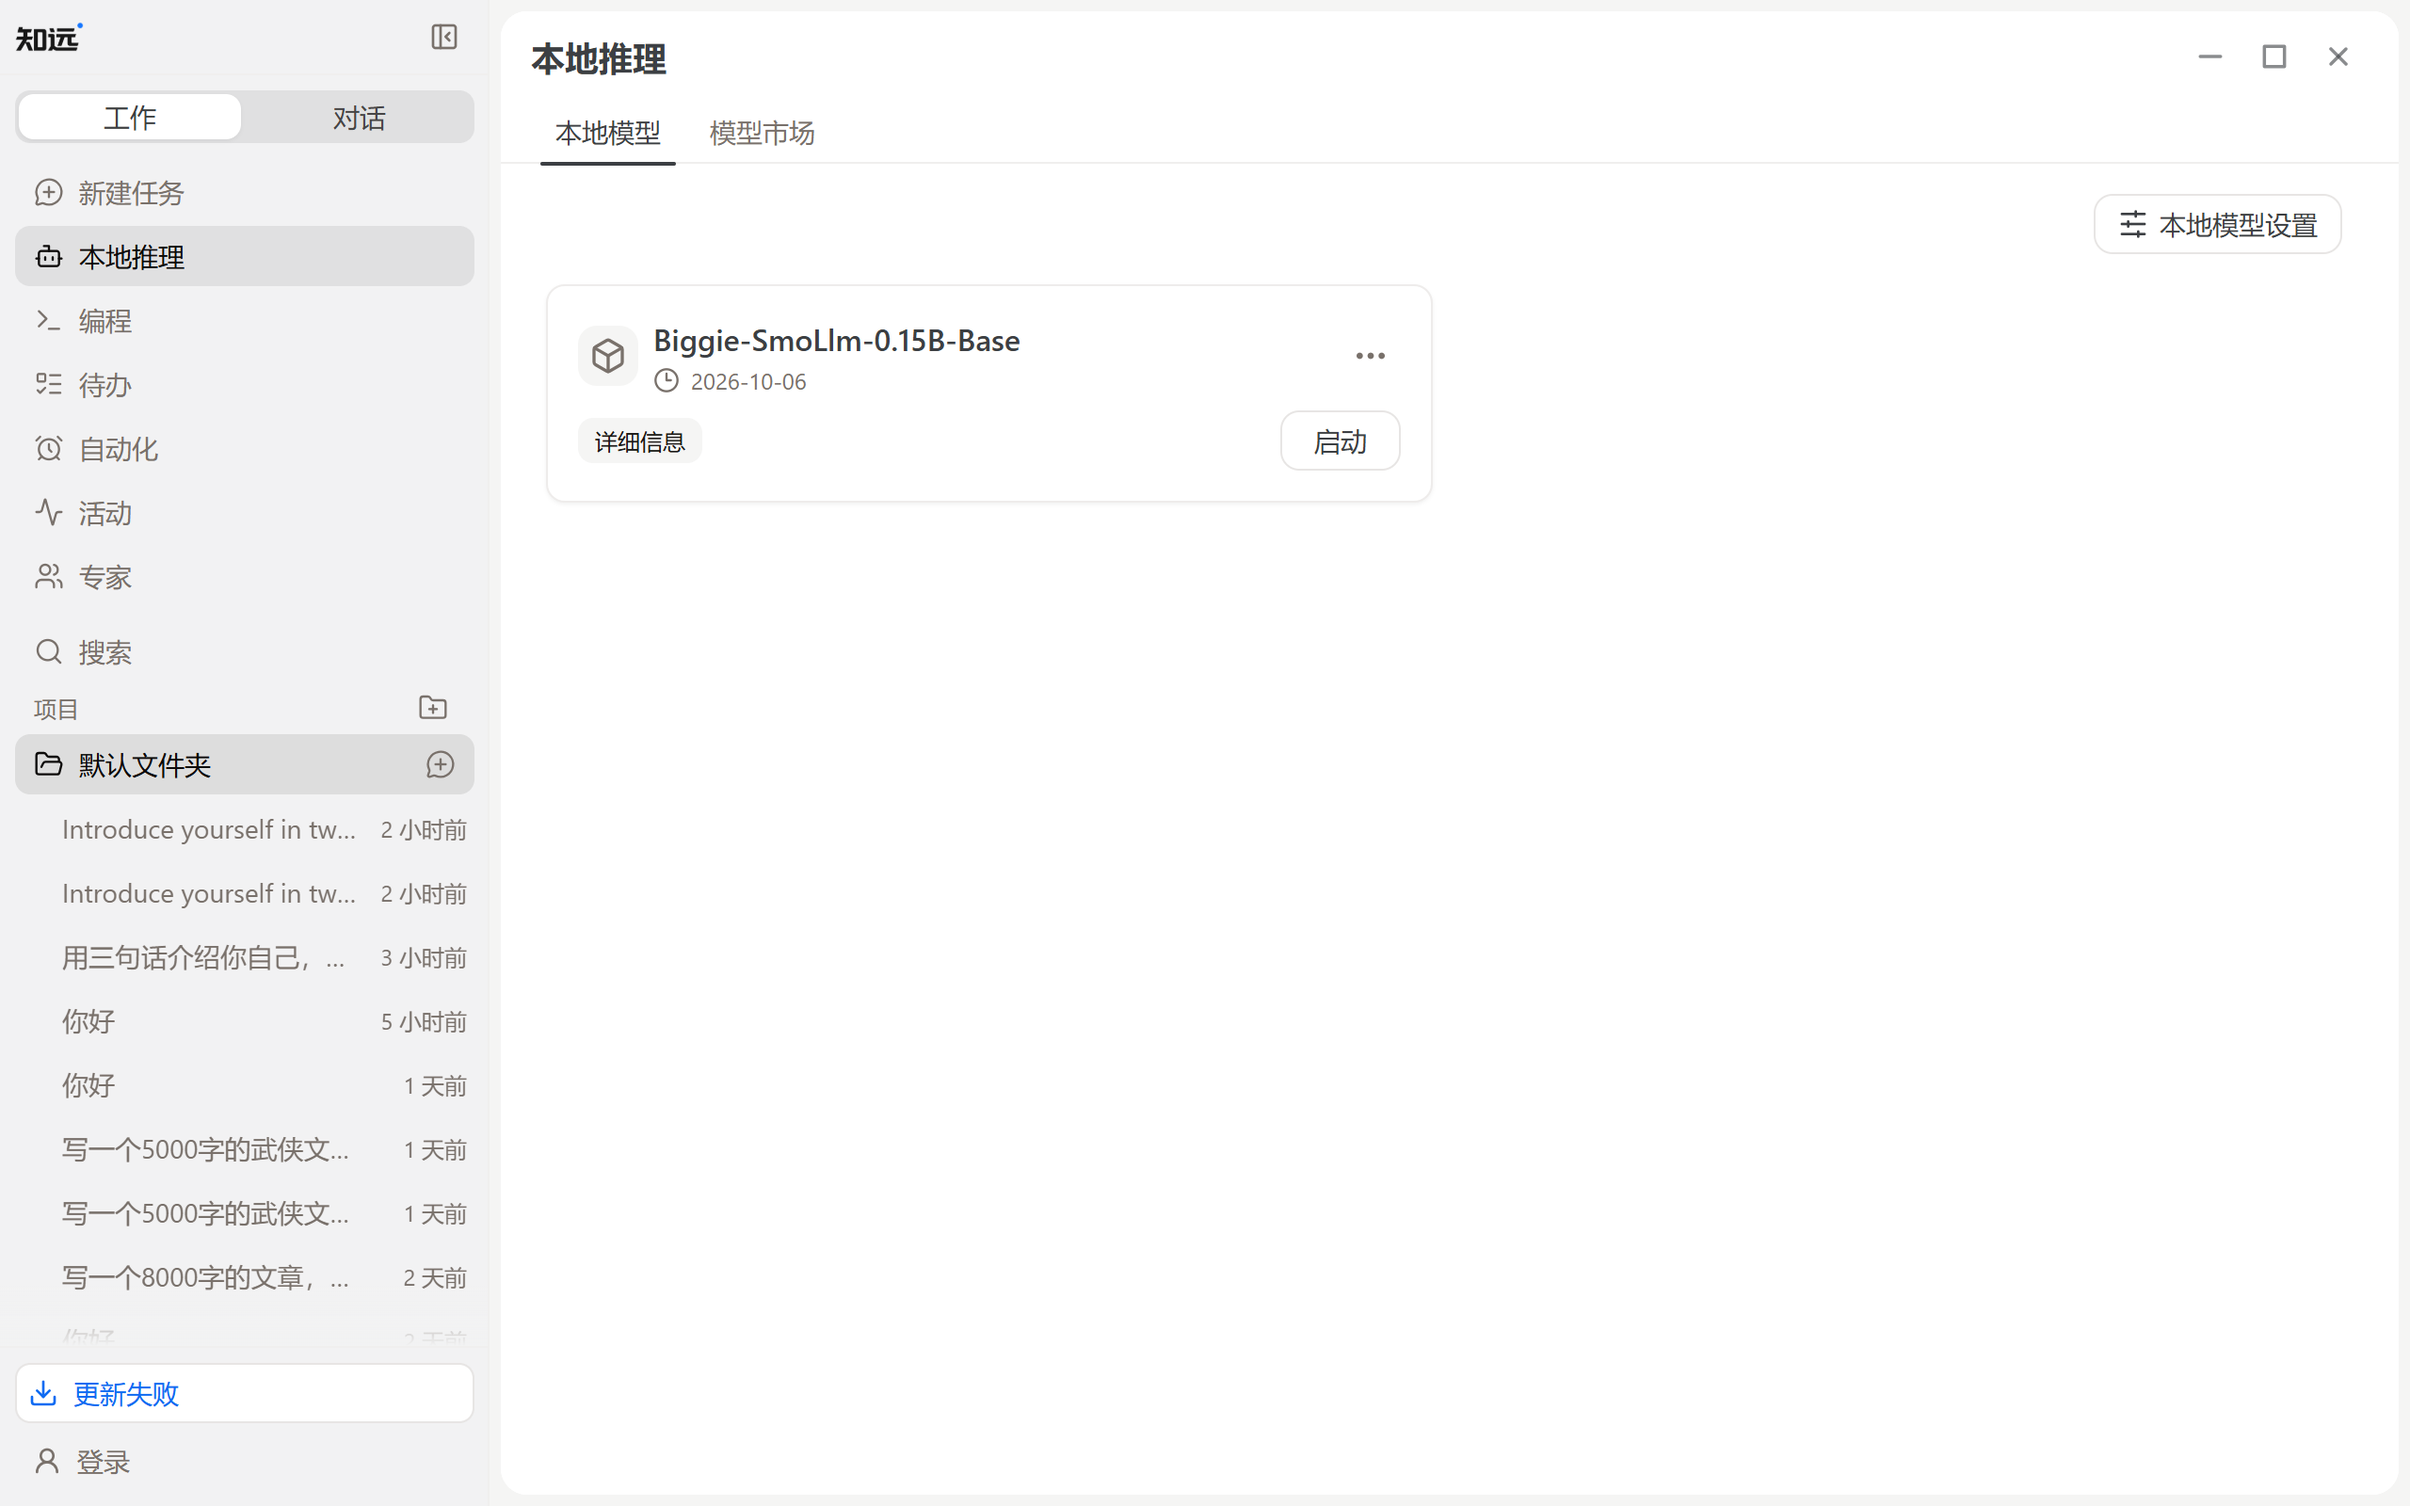
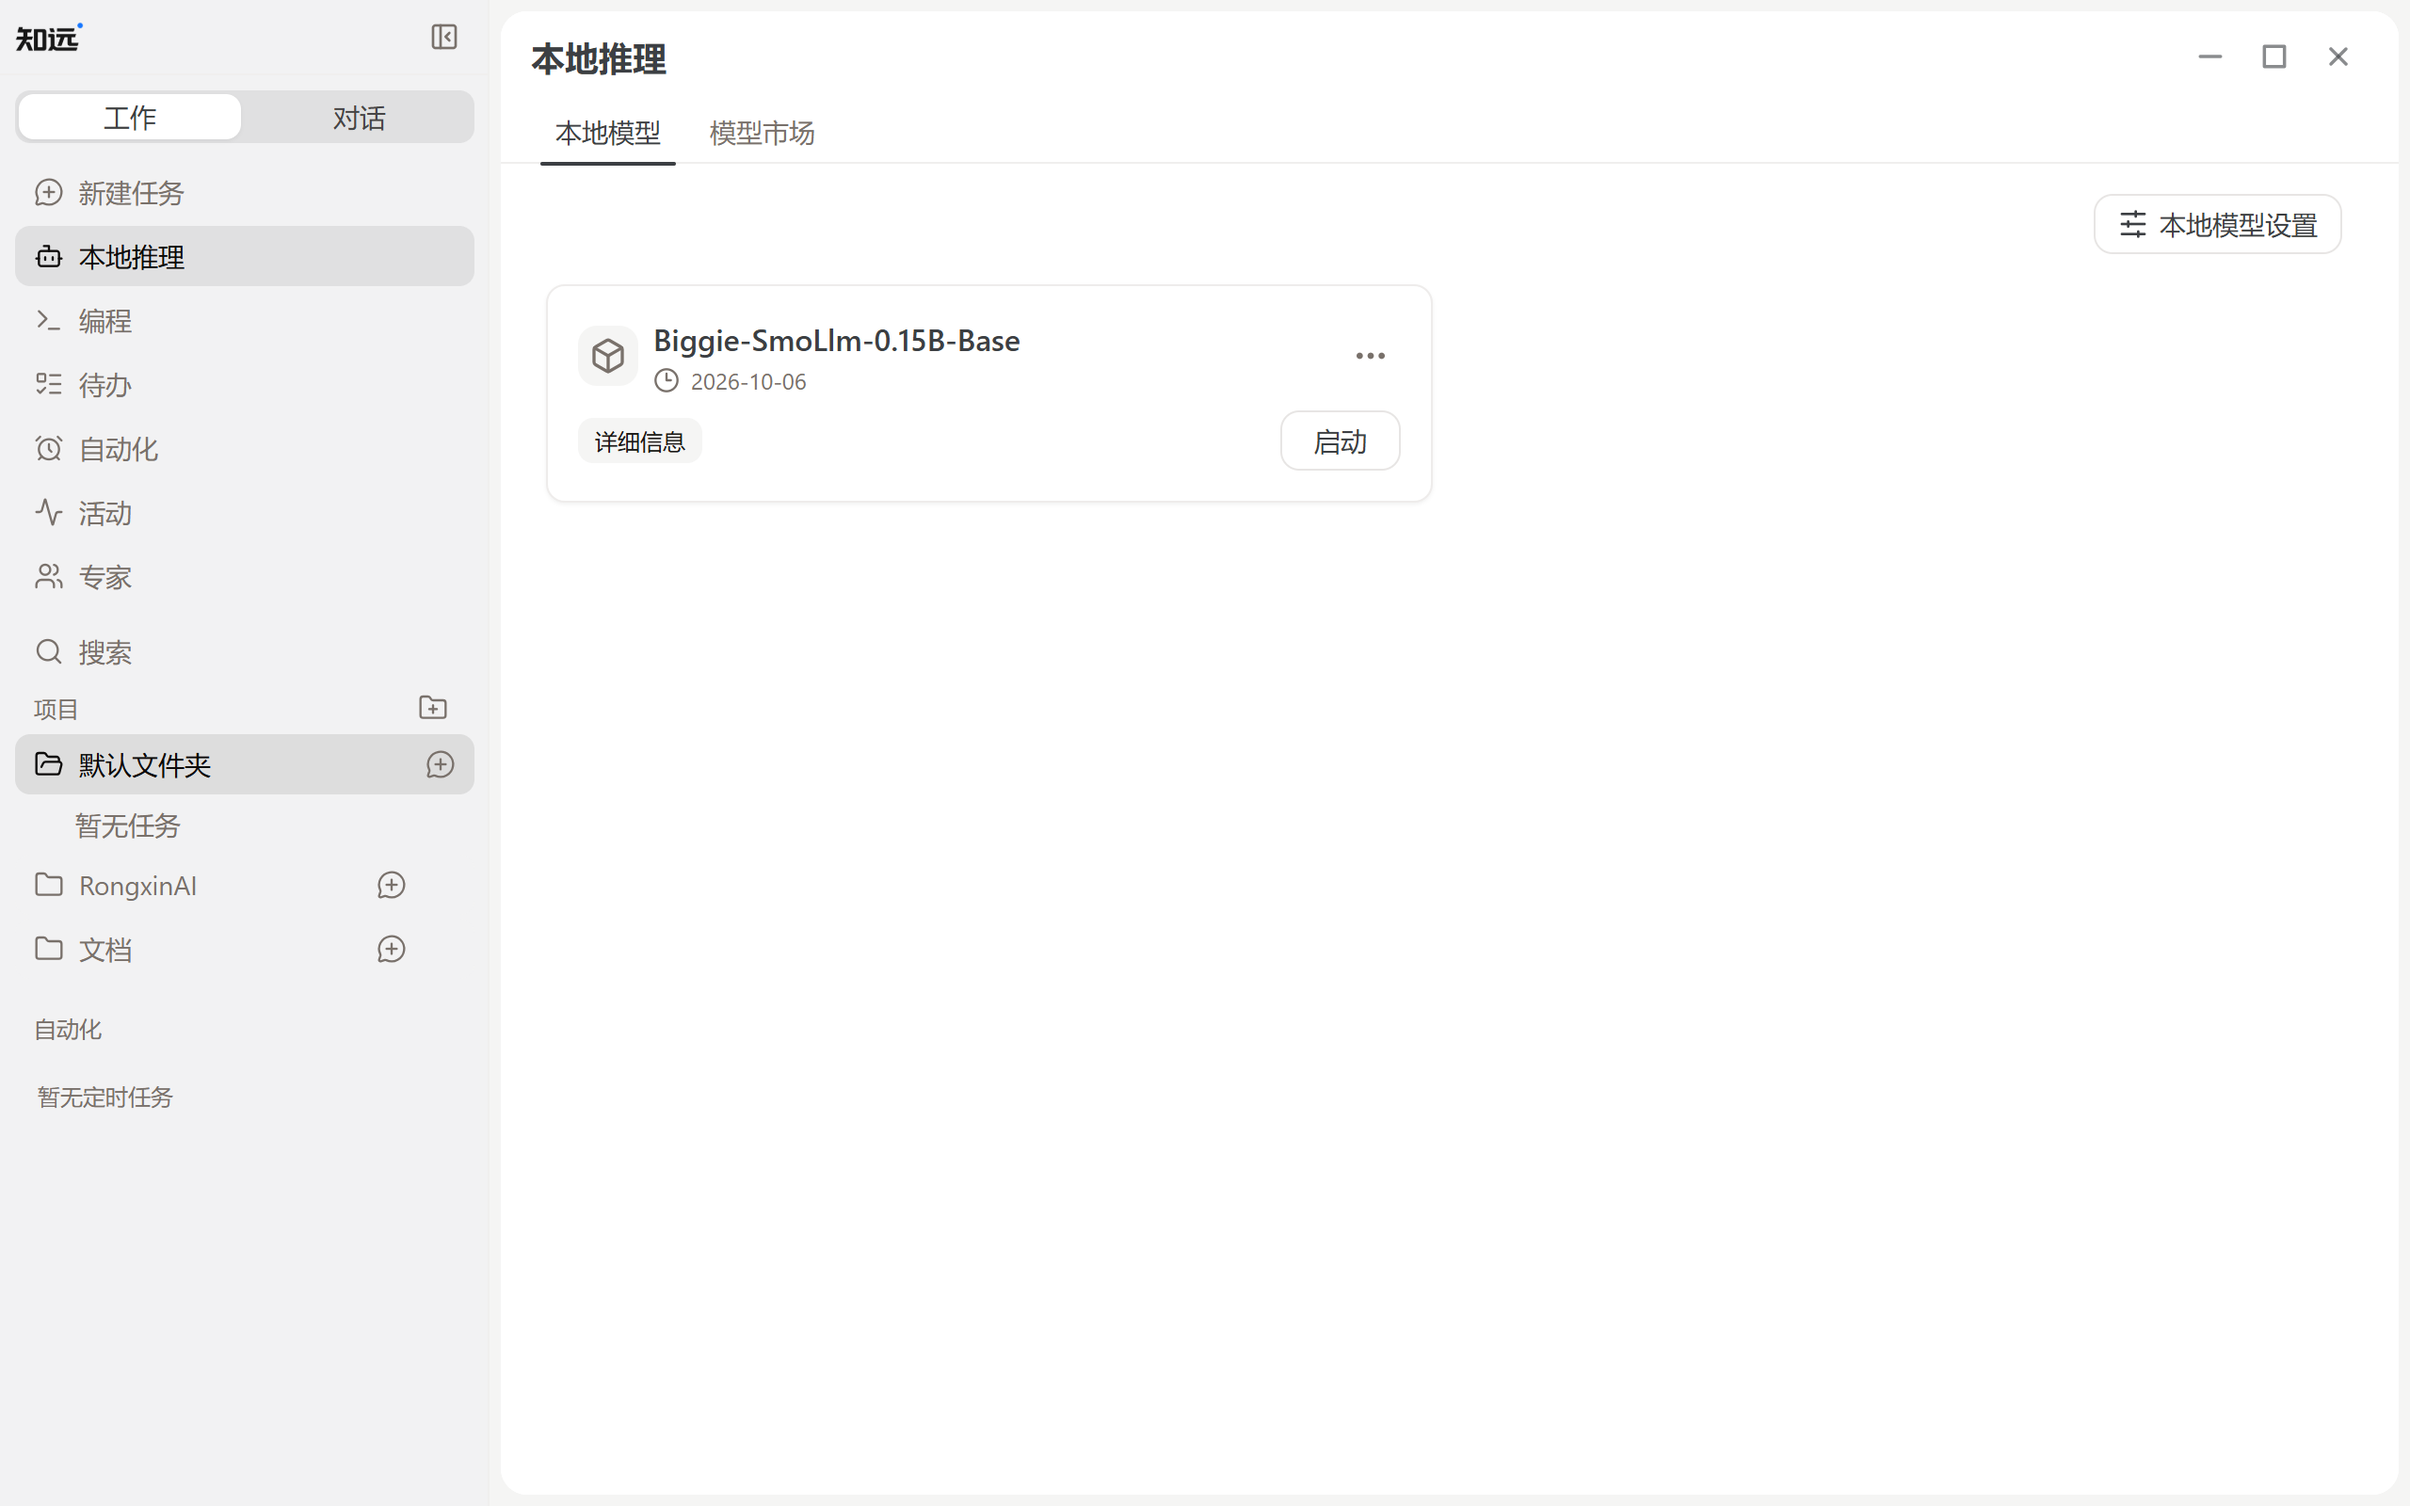
docs: 重截客户端截图（清理侧栏测试会话后）并更新代码签名表述
- 清空客户端全部测试会话后重截 7 组界面截图，中英各一套
- 隐私政策：安装包当前未代码签名，删除 SignPath 申请中的表述

diff --git a/docs/en/faq/privacy.md b/docs/en/faq/privacy.md
@@ -1,6 +1,6 @@
 # Data and Privacy Policy
 
-Last updated: 2026-08-08. Operator: Beijing Rongxin Zhiyuan Technology Co., Ltd.
+Last updated: 2026-10-06. Operator: Beijing Rongxin Zhiyuan Technology Co., Ltd.
 
 ## Product Data
 
@@ -18,7 +18,7 @@ The official website is hosted on Cloudflare Pages. The network service may proc
 
 ## Code Signing
 
-ZhiYuan is applying for the SignPath Foundation's open source code signing service. Once approved and enabled, code signing will only be used for the project's own binaries built by the controlled GitHub Actions release pipeline from the RongxinAI public repository. See the [Code signing policy on the official website](https://www.rongxzyai.com/#code-signing-policy) for the signing policy, roles, and release conditions.
+The current installers are not code-signed; Windows and macOS may warn that the publisher is unverified. Verify installer integrity against the SHA-256 checksums published on the release page.
 
 ## Contact and Rights
 

diff --git a/docs/faq/privacy.md b/docs/faq/privacy.md
@@ -1,6 +1,6 @@
 # 数据与隐私政策
 
-最后更新：2026-08-08。运营方：北京容芯致远科技有限公司。
+最后更新：2026-10-06。运营方：北京容芯致远科技有限公司。
 
 ## 产品数据
 
@@ -18,7 +18,7 @@
 
 ## 代码签名
 
-知远正在申请 SignPath Foundation 的开源代码签名服务。获批并启用后，代码签名只用于由 RongxinAI 公开仓库的受控 GitHub Actions 发布流程构建的项目自身二进制文件。签名策略、角色和发布条件见[官网的 Code signing policy](https://www.rongxzyai.com/#code-signing-policy)。
+当前发布的安装包未进行代码签名，Windows 和 macOS 可能提示发布者未验证。安装包完整性以发布页提供的 SHA-256 校验值为准。
 
 ## 联系方式与权利
 
